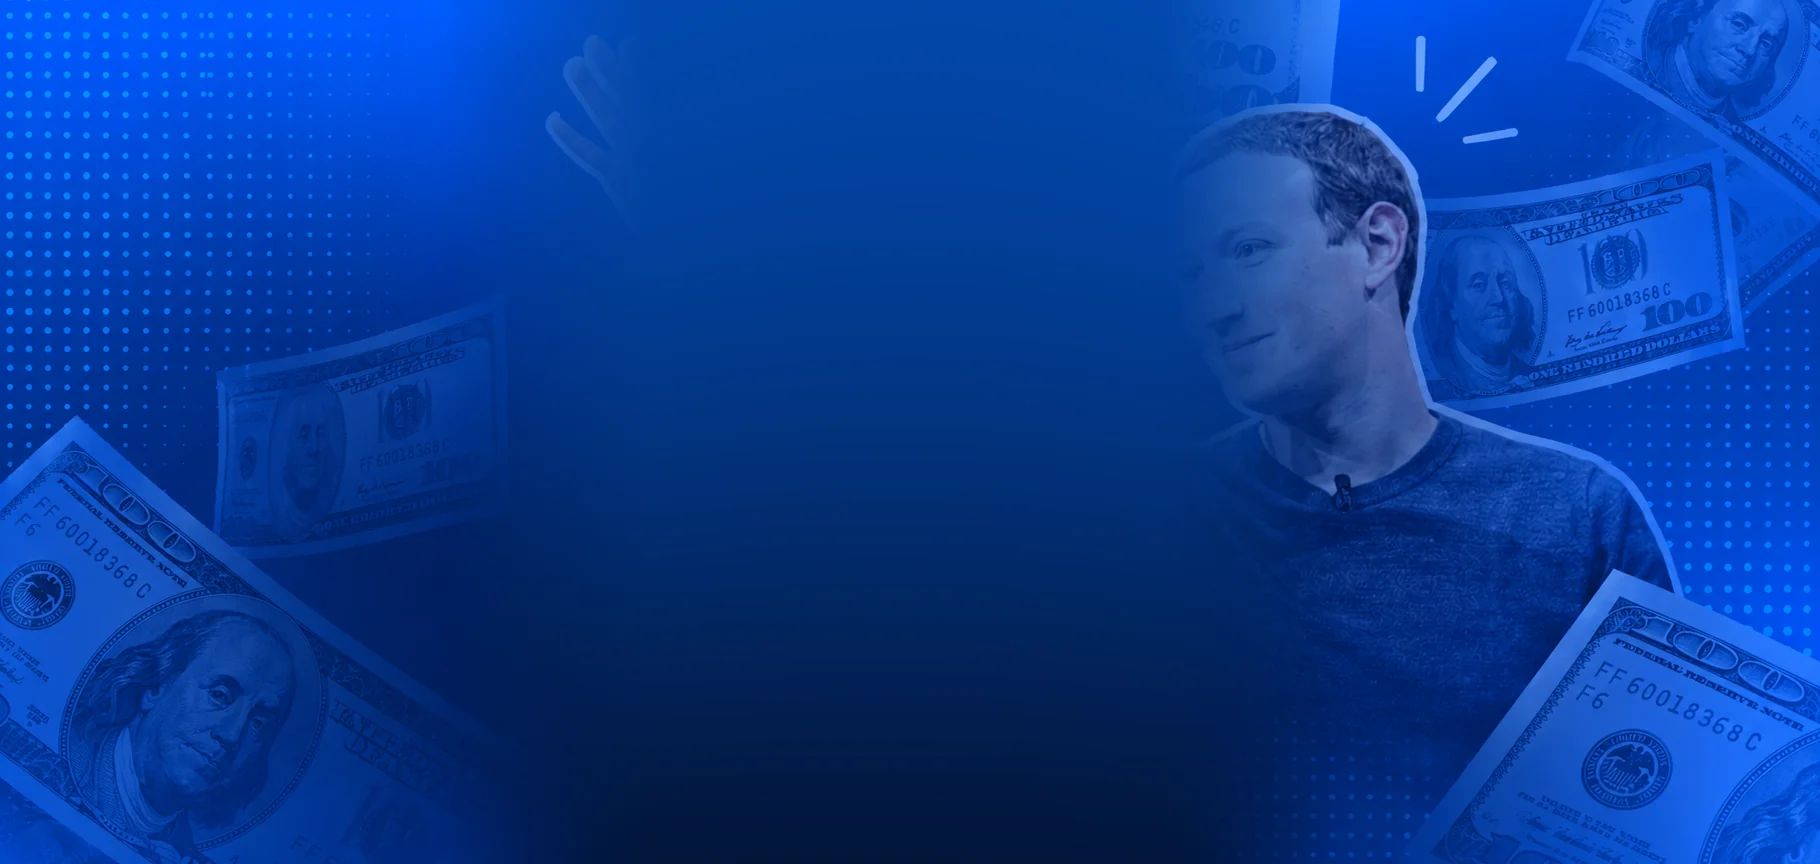
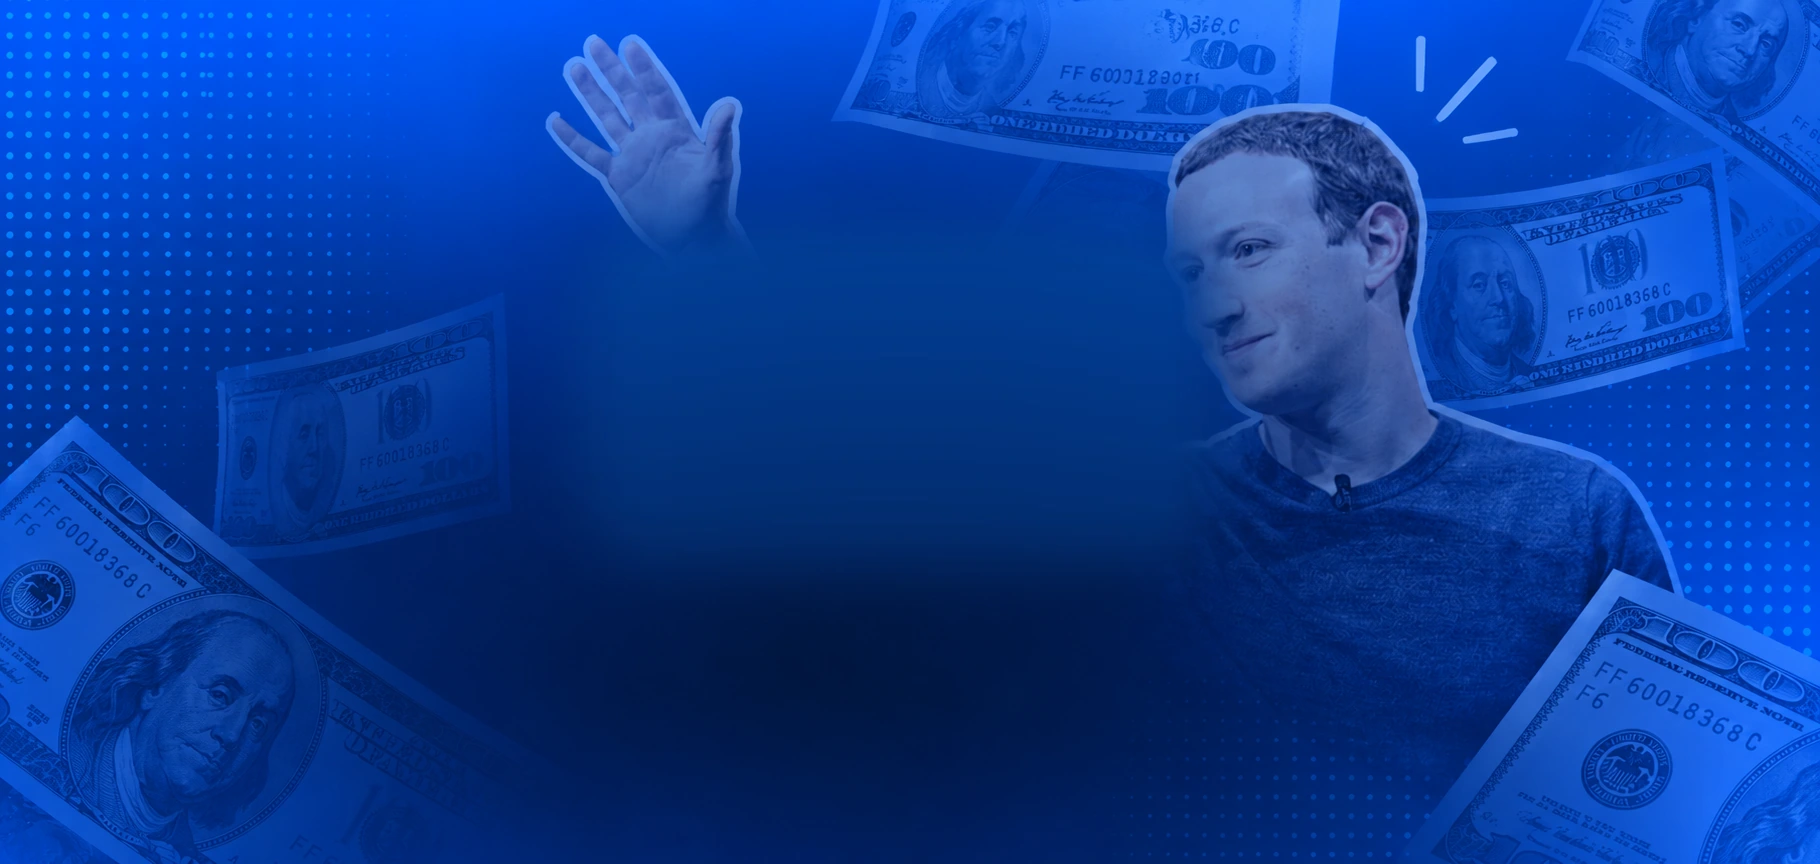
fix(ui): match video-processing composition to supplied reference

Changed region(s): [[0.2769, 0.0, 0.7385, 0.4688], [0.2769, 0.9062, 0.7077, 1.0], [0.4, 0.6875, 0.5231, 0.7812]]

diff --git a/src/styles.css b/src/styles.css
@@ -641,46 +641,93 @@ button:focus-visible,input:focus-visible,.drop:focus-within,.audio-option:focus-
 }
 
 
-/* Processing-only visual theme. The FFmpeg pipeline and loading markup stay
-   exactly as they were; only the background changes while working is true. */
+/* Processing-only visual theme — matched to the user's 1820 × 864
+   screenshot. Artwork excludes static typography/spinner: both stay live
+   browser elements, with FFmpeg, upload and result logic unchanged. */
 .site.site-processing {
   min-height: 100dvh;
   background-color: #03183f;
-  background-image:
-    linear-gradient(180deg, rgba(0, 26, 81, .12), rgba(0, 11, 38, .34)),
-    url("/assets/mark-processing-background.webp");
-  background-position: center, center;
-  background-size: cover, cover;
-  background-repeat: no-repeat, no-repeat;
+  background-image: url("/assets/mark-processing-background.webp");
+  background-position: center center;
+  background-size: cover;
+  background-repeat: no-repeat;
 }
 .site-processing .main.main-focused {
+  width: 100%;
+  max-width: none;
   min-height: 100dvh;
-  padding-top: 0;
-  padding-bottom: 0;
-  display: flex;
-  align-items: center;
-  justify-content: center;
+  margin: 0;
+  padding: 0;
+  display: grid;
+  place-items: center;
 }
 .site-processing .workspace.workspace-focused {
+  display: grid;
   width: 100%;
+  min-height: 100dvh;
+  grid-template-columns: minmax(0, 1fr);
+  place-items: center;
+}
+.site-processing .processing-only {
+  width: min(100%, 920px);
+  min-height: 0;
+  display: grid;
+  place-items: center;
+}
+.site-processing .processing-only .processing {
+  display: flex;
+  flex-direction: column;
+  align-items: center;
+  justify-content: center;
+  width: min(600px, 100%);
+  min-height: 0;
+  padding: 0 16px;
+  text-align: center;
+  transform: translateY(-42px);
+}
+.site-processing .processing-only .processing .loader {
+  flex: 0 0 64px;
+  width: 64px;
+  height: 64px;
+  margin: 0 auto 32px;
+  border: 4px solid rgba(166, 202, 251, .25);
+  border-top-color: #83c2ff;
 }
 .site-processing .processing-only .processing h3 {
+  margin: 0 0 14px;
   color: #f2f7ff;
+  font-size: clamp(23px, 2.1vw, 30px);
+  font-weight: 750;
+  line-height: 1.2;
+  letter-spacing: -.03em;
   text-shadow: 0 2px 17px rgba(0, 15, 55, .28);
 }
 .site-processing .processing-only .processing p {
-  color: #c8e0ff;
+  max-width: 540px;
+  margin: 0;
+  color: #d6e8ff;
+  font-size: clamp(14px, 1.2vw, 17px);
+  line-height: 1.65;
+  text-wrap: pretty;
   text-shadow: 0 1px 12px rgba(0, 15, 55, .3);
 }
-.site-processing .processing-only .processing .loader {
-  border-color: rgba(166, 202, 251, .25);
-  border-top-color: #83c2ff;
+@media (max-width: 850px) {
+  .site.site-processing { background-position: 63% center; }
+  .site-processing .processing-only .processing { transform: translateY(-18px); }
 }
-@media (max-width: 700px) {
-  .site.site-processing {
-    background-image:
-      linear-gradient(180deg, rgba(0, 25, 72, .47), rgba(0, 11, 38, .68)),
-      url("/assets/mark-processing-background.webp");
-    background-position: center, 70% center;
+@media (max-width: 600px) {
+  .site.site-processing { background-position: 67% center; }
+  .site.site-processing::before {
+    content: "";
+    position: absolute;
+    inset: 0;
+    background: rgba(0, 17, 60, .28);
+    pointer-events: none;
+  }
+  .site-processing .main.main-focused { position: relative; z-index: 1; }
+  .site-processing .processing-only .processing {
+    width: 100%;
+    padding: 0 20px;
+    transform: translateY(-14px);
   }
 }
